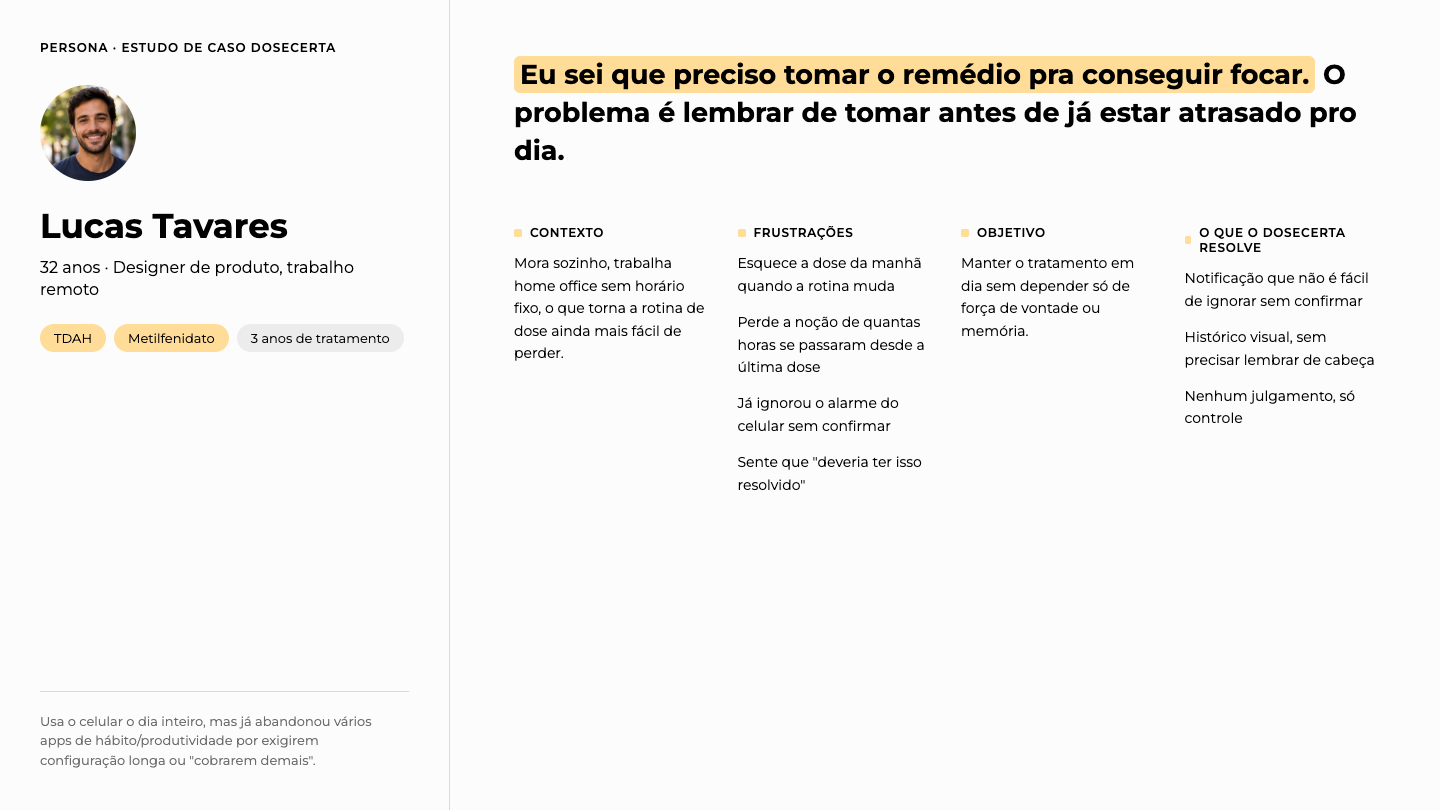
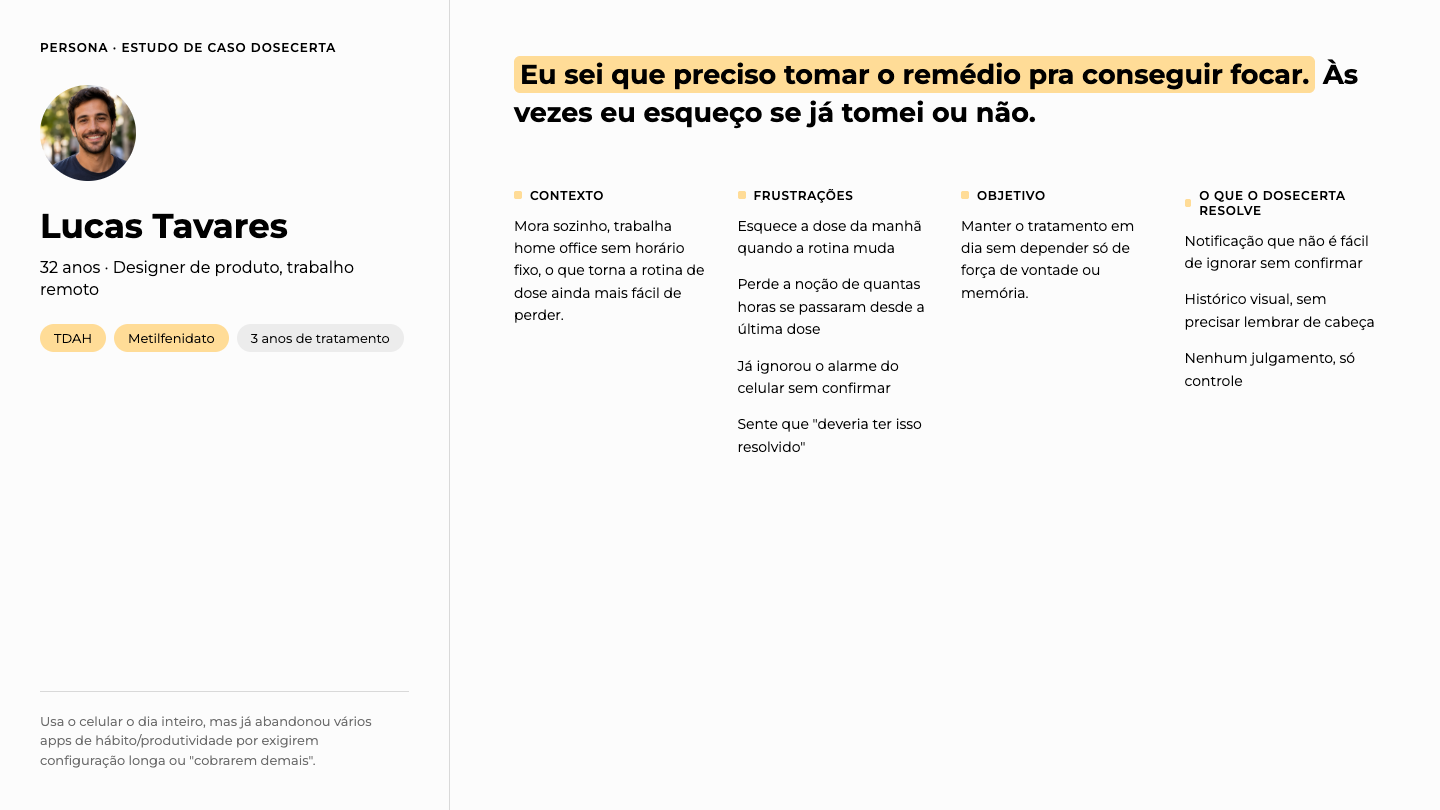
DoseCerta: ajusta citação da persona pra falar do esquecimento da dose
Segunda parte da citação do Lucas trocada de "O problema é lembrar de
tomar antes de já estar atrasado pro dia" pra "Às vezes eu esqueço se
já tomei ou não", ecoando o problema central que o DoseCerta resolve
(mesmo tipo de frase que a Regina já usava). Versão da imagem
atualizada pra v=3.

diff --git a/experiencia-pessoal.html b/experiencia-pessoal.html
@@ -431,7 +431,7 @@
           <p>Persona fictícia, construída a partir dos dados de pesquisa citados acima, pra dar um rosto ao problema que o DoseCerta resolve.</p>
         </div>
         <div class="project-gallery">
-          <img src="assets/img/dosecerta-persona-lucas.png?v=2" alt="Persona Lucas Tavares, 32 anos, designer de produto com TDAH em tratamento contínuo com metilfenidato, mostrando contexto, frustrações, objetivo e o que o DoseCerta resolve pra ele" />
+          <img src="assets/img/dosecerta-persona-lucas.png?v=3" alt="Persona Lucas Tavares, 32 anos, designer de produto com TDAH em tratamento contínuo com metilfenidato, mostrando contexto, frustrações, objetivo e o que o DoseCerta resolve pra ele" />
         </div>
 
         <p class="project-subhead">Por que não só um alarme?</p>
